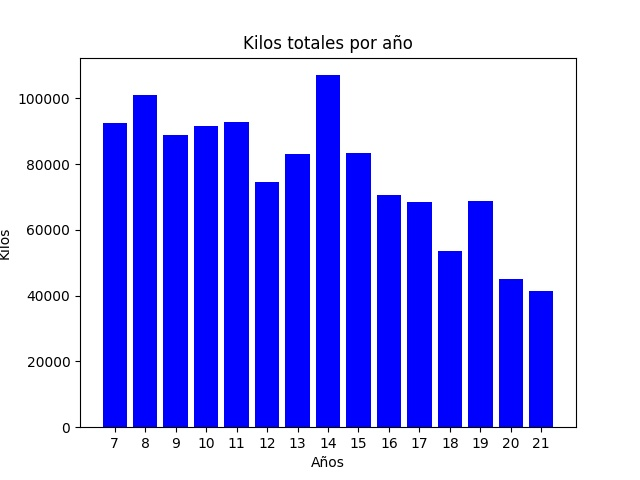
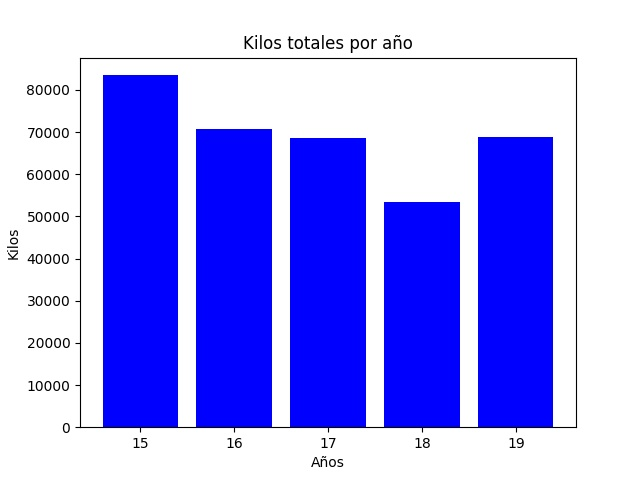
Reports actualización años

diff --git a/controlfitos/templates/controlfitos/reports_template.html b/controlfitos/templates/controlfitos/reports_template.html
@@ -1,9 +1,7 @@
 {% extends "controlfitos/base_template.html" %}
 {% block content %}
-
-
 <ul>
-    <li><a href="./kilosporanyo">Kilos por año</a> </li>
+    <li><a href="./{{ KilosPorAnyo }}">Kilos por año</a> </li>
     <li><a href="./{{ KilosPorVaridad }}">Kilos por variedad</a></li>
 </ul>
 {% endblock content %}

diff --git a/controlfitos/views.py b/controlfitos/views.py
@@ -119,22 +119,26 @@ class ClienteUpdateView(UpdateView):
 
 def reports(request):
     template = loader.get_template("controlfitos/reports_template.html")
-    context = {}
+    context = {
+               'KilosPorAnyo' : Reports.KilosPorAnyo,
+               'KilosPorVaridad': Reports.KilosPorVaridad,
+    }
     return HttpResponse(template.render(context,request))
 
 
-def report(request,report_id):
+def report(request,report_id,start_year=0,end_year=0,cultivo=0,variedad=0):
     file_image = ""
     base_name = ""
     template = loader.get_template("controlfitos/report_template.html")
     if report_id == Reports.KilosPorAnyo:
         print(f'exportando fichero de salida')
-        agricultor = Agricultor()
-        anyos, kilos = agricultor.getKilosPorAnyo()
+        anyos, kilos = Agricultor.getKilos(start_year=start_year, end_year=end_year, cultivo_id=cultivo, variedad_id=variedad)
         base_name = f'{report_id}.jpg'
         file_name = f'static/{base_name}'
         out_file_image = f'controlfitos/{file_name}'
         outputReport.reportYearTotalEvolution(anyos,kilos,out_file_image)
+        anyos = []
+        kilos = []
     context = {
         'report_id'  : report_id,
         'report_img' : base_name,
@@ -144,8 +148,6 @@ def report(request,report_id):
 
 
 def index(request):
+    context = {}
     template = loader.get_template("controlfitos/base_template.html")
-    context = {'KilosPorAnyo' : Reports.KilosPorAnyo,
-               'KilosPorVaridad': Reports.KilosPorVaridad,
-               }
     return HttpResponse(template.render(context,request))

diff --git a/controlfitos/models.py b/controlfitos/models.py
@@ -1,4 +1,5 @@
 import datetime
+import sys
 
 import django
 from django.db import models
@@ -41,17 +42,28 @@ class Agricultor(models.Model):
     cliente = models.ForeignKey(Cliente,on_delete=models.CASCADE)
     cif = models.CharField(max_length=10,default='')
 
-    def getKilosPorAnyo(self):
+    @staticmethod
+    def getKilos(start_year=0, end_year=0, cultivo_id=0, variedad_id=0):
         query = 'SELECT' \
                 '    YEAR(T0.fecha) as "year" ' \
                 '    ,SUM(T1.cantidad) as kilos' \
                 '	 FROM   controlfitos_cabsalida T0 ' \
                 '	 JOIN controlfitos_salida T1 ON T1.cabSalida_id = T0.id' \
                 '    JOIN  controlfitos_variedad T2 ON T2.id = T1.variedad_id' \
-                '    GROUP BY YEAR(T0.fecha)'
+                '    WHERE 1=1 ' \
+
+        if start_year != 0:
+            query = query + f' AND YEAR(T0.fecha)>={start_year}'
+
+        if end_year != 0:
+            query = query + f' AND YEAR(T0.fecha)<={end_year}'
+
+        query = query +  '    GROUP BY YEAR(T0.fecha)'
         years = []
         kilos = []
         cursor = connection.cursor()
+
+        print(f'Query:\n{query}')
 
         cursor.execute(query)
         records = cursor.fetchall()

diff --git a/controlfitos/urls.py b/controlfitos/urls.py
@@ -24,13 +24,12 @@ urlpatterns = [
     path('producto/list', views.ProductoList.as_view(), name='producto-list'),
     path('producto/add', views.ProductoCreateView.as_view(), name='producto-add'),
 
-    path('reports/<str:report_id>/', views.report, name='report'),
 
     path('reports/', views.reports, name='reports'),
-
-
-
-
-
+    path('reports/<str:report_id>/', views.report),
+    path('reports/<str:report_id>/<int:start_year>/',views.report),
+    path('reports/<str:report_id>/<int:start_year>/<int:end_year>',views.report),
+    path('reports/<str:report_id>/<int:start_year>/<int:end_year>/<int:cultivo>',views.report),
+    path('reports/<str:report_id>/<int:start_year>/<int:end_year>/<int:cultivo>/<int:variedad>',views.report),
 
 ]
